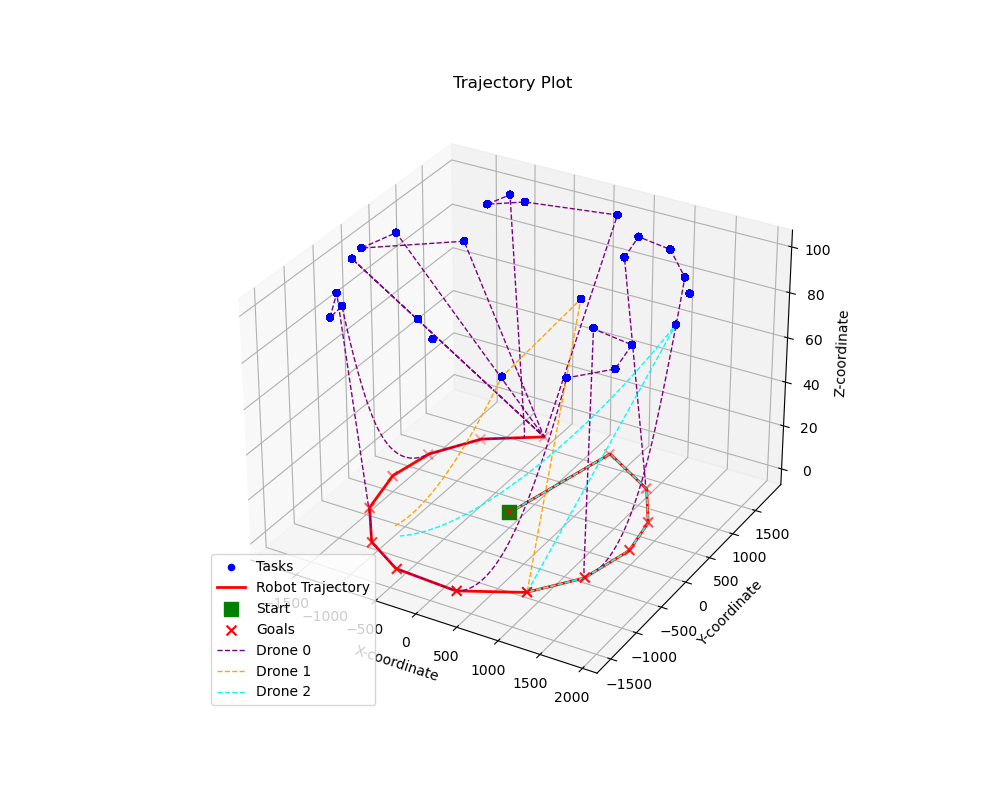
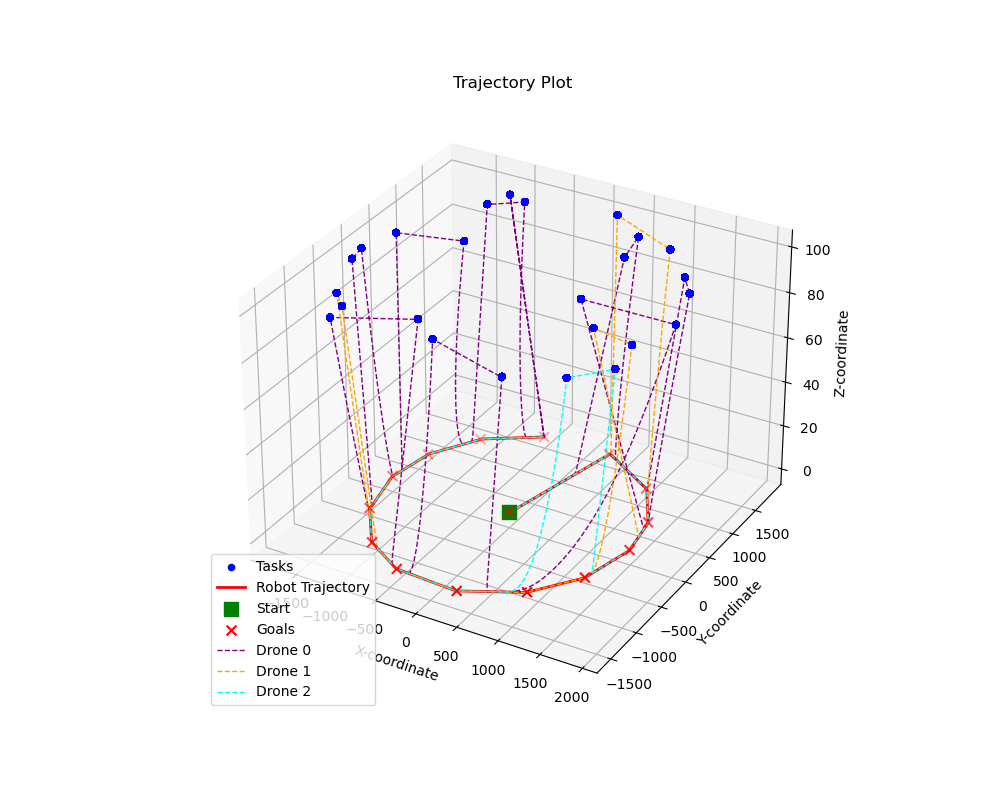
Update solver

Changed region(s): [[0.31, 0.25, 0.682, 0.75], [0.372, 0.2812, 0.465, 0.3125], [0.465, 0.625, 0.496, 0.6562]]

diff --git a/robot.py b/robot.py
@@ -26,7 +26,6 @@ class DifferentialDriveRobot:
         # information in task: x, y, z, priority value, probability value
         self.task = np.empty((0, 4))
         self.finished_task = np.empty((0, 4))
-        self.missed_task = np.empty((0, 4))
 
         # PID parameters
         self.linear_integral = 0
@@ -137,7 +136,7 @@ class DifferentialDriveRobot:
         
         current_node = np.array(route[-1])
 
-        probot = np.array(self.get_position())    # position of robot when drone reach the last node
+        probot = np.array(self.get_position())          # position of robot when drone reach the last node
 
         vel = self.vel[0]
 
@@ -149,7 +148,7 @@ class DifferentialDriveRobot:
 
         vrobot = np.array([vx, vy, 0])
 
-        ttime = 0                                 # travel time of the route
+        ttime = 0                                       # travel time of the route
 
         avai_tasks = self.task
 

diff --git a/main.py b/main.py
@@ -25,7 +25,7 @@ from plot import *
 # from robot_trajectory import *
 
 
-env = Environment('stra1.txt')
+env = Environment('cir1.txt')
 
 # define the robot
 robot = DifferentialDriveRobot(env.START[0],env.START[1],env.START[2],vmax=robot_vmax,sr=env.sensing_range)
@@ -154,6 +154,7 @@ def main():
     if save_file:
         plotter.animate('robot_trajectory.gif', fps=15)
 
+    print('Check the plotter. Number of available task ', len(robot.task), 'number of finished tasks', len(robot.finished_task))
 
 if __name__ == "__main__":
     main()

diff --git a/gradient_solver.py b/gradient_solver.py
@@ -54,7 +54,7 @@ def optimize2_gradient_descent(q, l1, t1, robot_position, robot_vel, ttime, uav_
         d2 = np.linalg.norm([q[0]-pr[0],q[1]-pr[1]]) + np.linalg.norm((ttime+t1+t2)*robot_vmax)
         d1 = z
         max_dis = np.sqrt(d1**2 + d2**2)
-        return max_dis - (ttime+t1+t2)*uav_avg_vel
+        return max_dis - (traversable_time)*uav_avg_vel
 
     # Gradient descent loop
     for _ in range(max_iterations):

diff --git a/config.py b/config.py
@@ -35,7 +35,7 @@ epsilon = 3                 # allowed distance of controller (m)
 
 num_drones = 3              # number of drone in simulation
 
-save_file = False
+save_file = True
 
 class Environment:
     def __init__(self, filename):
